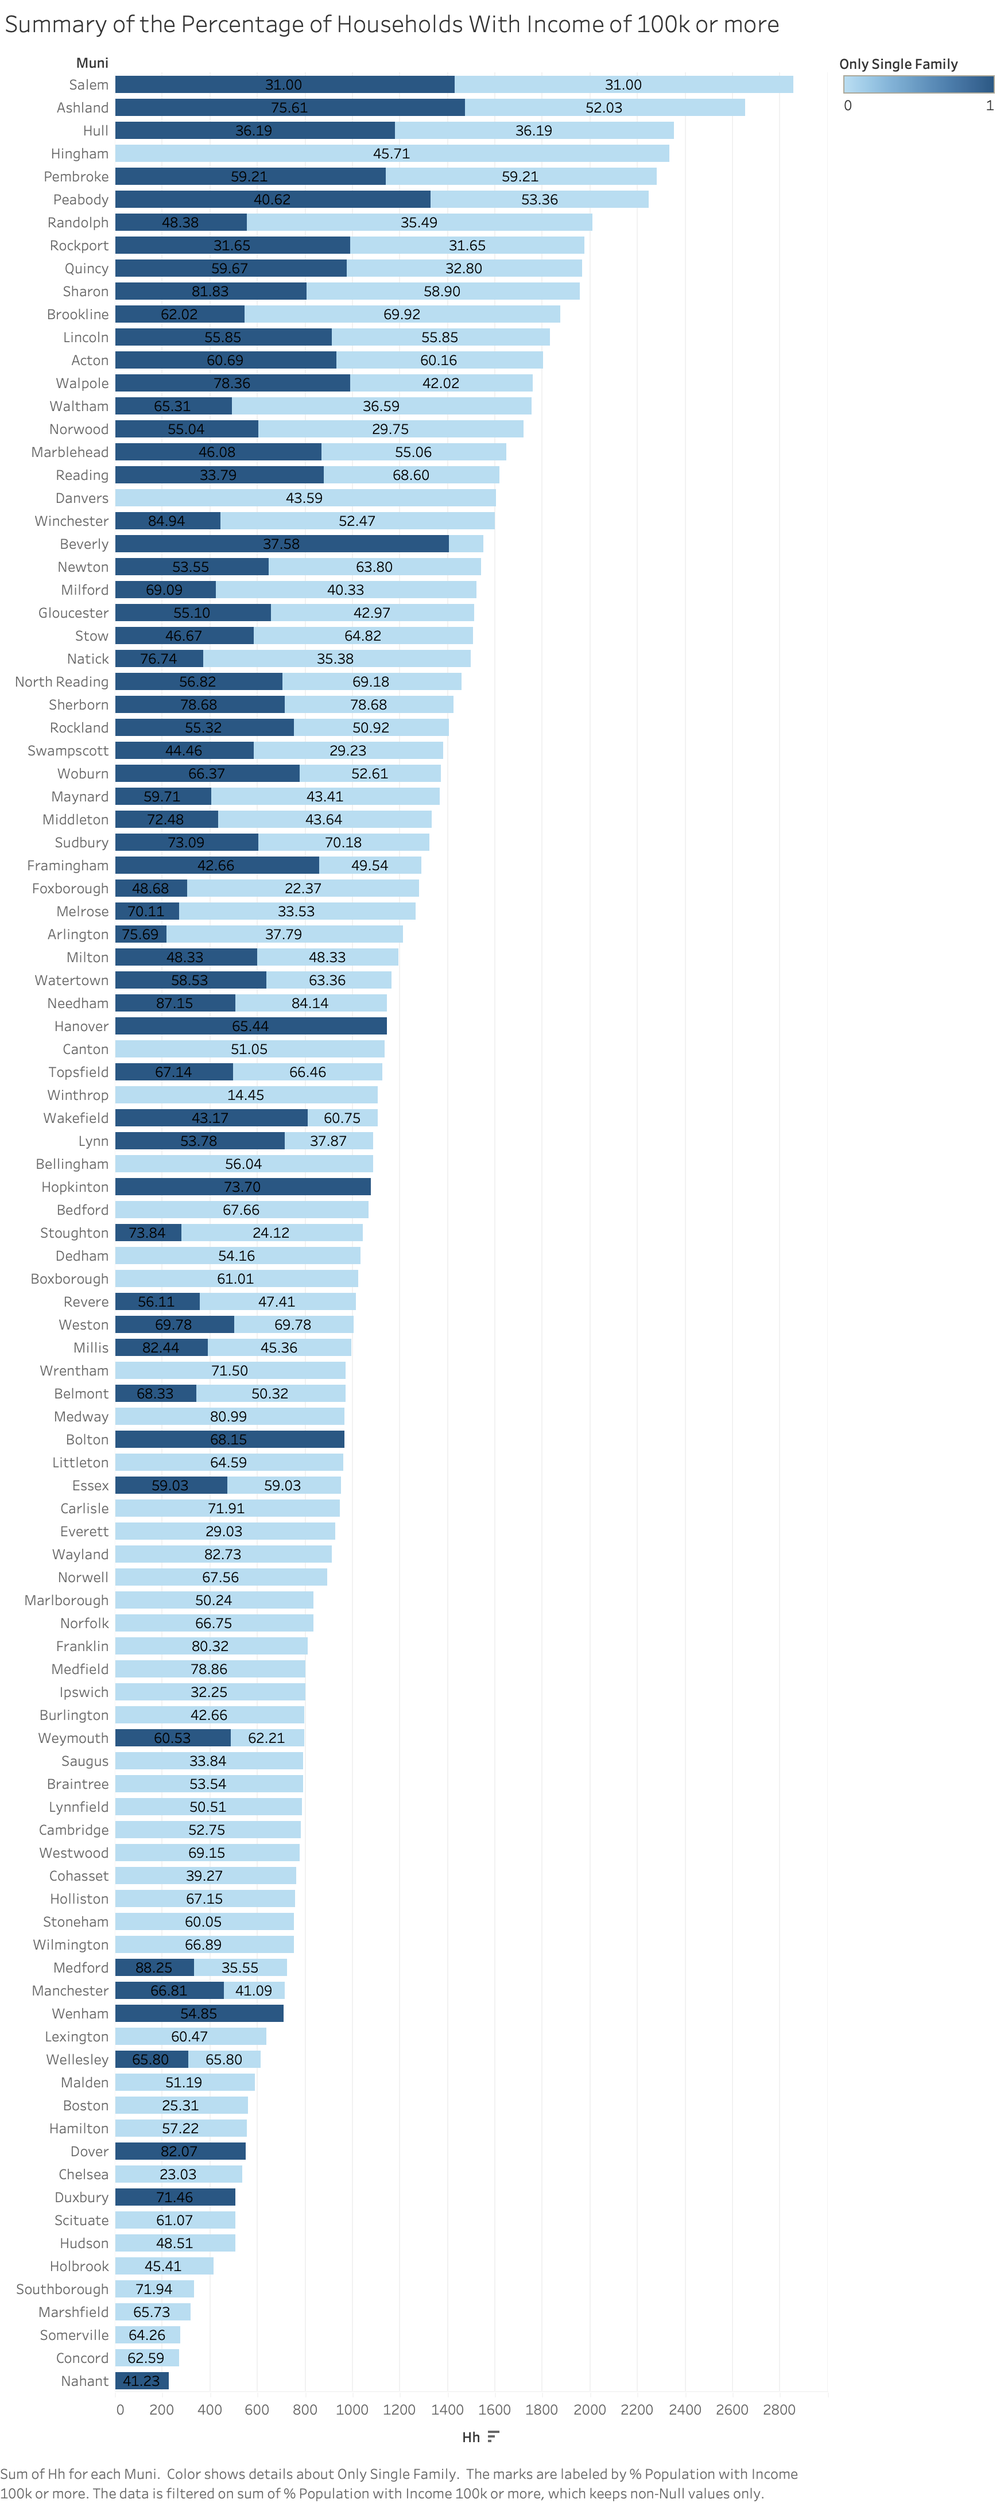
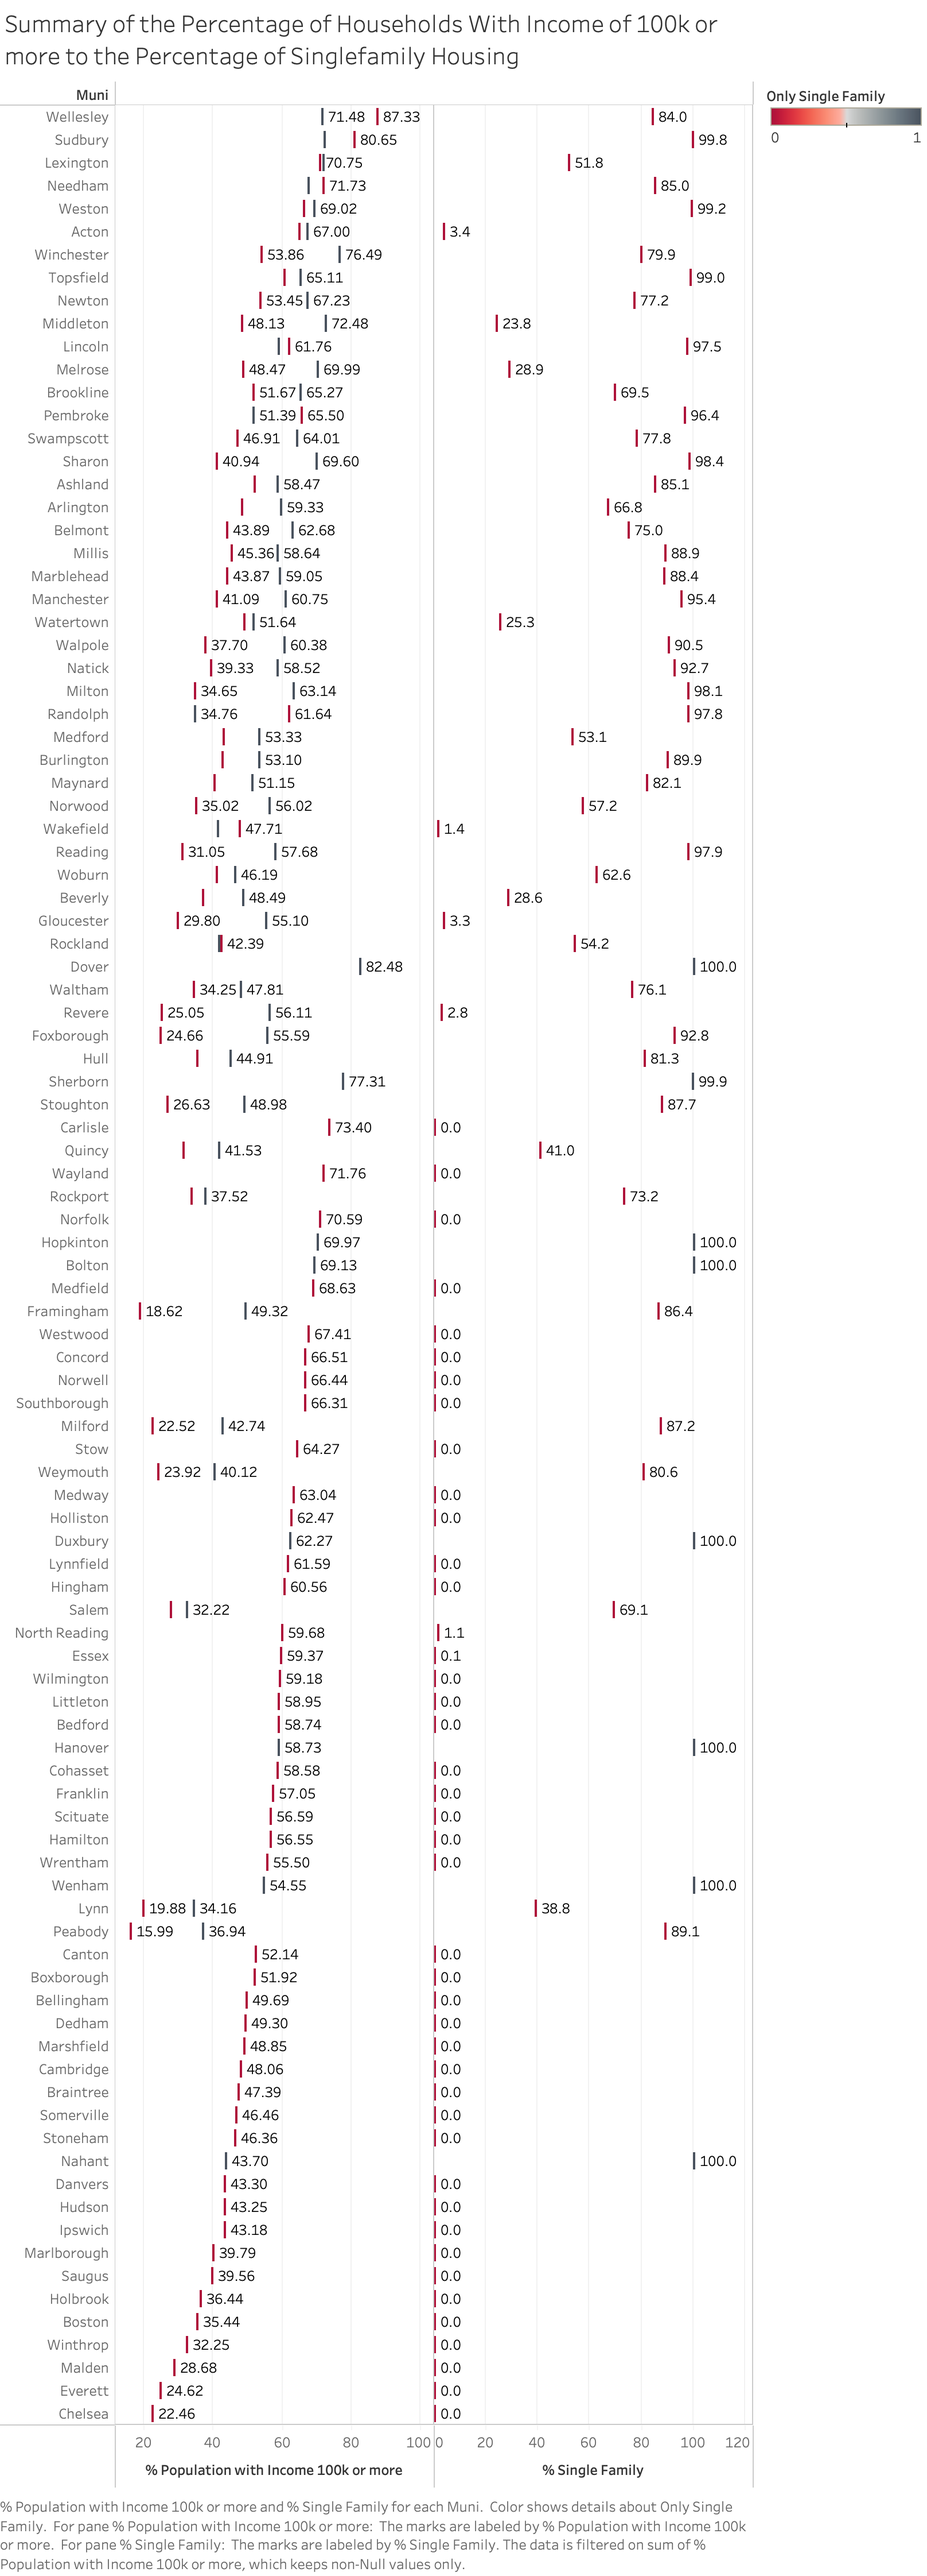
fned 5 - 7

diff --git a/assignment2/index.html b/assignment2/index.html
@@ -62,28 +62,28 @@
 			<figure>
 				<img src="./Sheet 4.png" alt="" />
 				<figcaption>
-				The bubble chart illustrates the population under 18 years based on different housing types. The pink bubbles represent the population living in multifamily housing zone and the purple bubbles represent the population living in single-family housing zone. This illustration shocks me as I did not expect how uneven the distribution of dependants living in multifamily housings compared to single-family housings would be. My inference was that people living in single-family houses are more likely to have more children as they can afford to do so. I wonder what is the distributions for other age groups are like.
+				The bubble chart illustrates the population under 18 years based on different housing types. The pink bubbles represent the population living in multifamily housing zone and the purple bubbles represent the population living in single-family housing zone. This illustration shocks me as I did not expect how uneven the distribution of dependants living in multifamily housings compared to single-family housings would be. My inference was that people living in single-family houses are more likely to have more children as they have more living space. I wonder what is the distributions for other age groups are like.
 				</figcaption>
 			</figure>
 
 			<figure>
 				<img src="Sheet 5.png" alt="" />
 				<figcaption>
-				The bar graphs compare the different distribution of age groups across different cities, each indicating which housing zone the population is from. The pink bar represents the people living in multifamily housing zone while the dark purple bar represents the people living in single-family housings. Expanding from previous observation about the population under 18, I would expect more retired people (over 65) to live in single-family houses because they are usually more established financially with no dependants. Yet, that's not the case at all. The charts indicates that people, across all age groups tend to live in multifamily housing zones. Only in some cities (eg. Woburn) would this observation flipped. I wonder what causes the difference in the trend. Noticably, some rows were excluded as since their populations were recorded as 0.
+				The bar graphs compare the different distribution of age groups across different cities on the MBTA list (cities that allow for multifamily housings). The pink bar represents the people living in multifamily housing zone while the dark purple bar represents the people living in single-family housings. Expanding from previous observation about the population under 18, I would expect more retired people (over 65) to live in single-family houses because they are usually more established financially with no dependants. Yet, that's not the case at all. The charts indicates that the population, across all age groups, tend to have similar distribution in single-family and multifamily housing zones. The difference depends on the cities themselves.
 				</figcaption>
 			</figure>
 
 			<figure>
 				<img src="Sheet 6.png" alt="" />
 				<figcaption>
-				The chart displays the percentage of households with an income of $100,000 or more with labels. The dark blue represent households living in single-family housings and the light blue represent households living in multifamily housings. I expected to see more of a difference between the percentages between single-family and multifamily households because I expect most single-family households to have higher income. Yet, the numbers are about the same in most municipals. 
+				The chart displays the percentage of households with an income of $100,000 or more with labels next to a chart with the percentage of single-family housing. The black tick represents household living in single-family housing zone and the dark red represent households living in multifamily housing zone. I expected to see more of a difference between the percentages between single-family and multifamily households because I expect most single-family households to have higher income. Yet, the numbers are about the same in most municipals. There is also no evidence for how the percentage of single-family housing is affected by the percentage of people with high income living in that city. However, it does look like single-family housing zone tend to have higher percentage of households with more than $100k income.
 				</figcaption>
 			</figure>
-p
+
 			<figure>
-				<img src="Sheet 8.png" alt="" />
+				<img src="Sheet 7.png" alt="" />
 				<figcaption>
-				The chart compares the percentage of non-white population between single-family and multifamily housing zone where pink represents multifamily and purple represents single-family. In almost every municipals where there are both single and multifamily housing, we can see that non-white population is always greater in multifamily housing zone than single-family housing zone. We can argue that by restricting the size of multifamily housing zone, cities can lower the percentage of non-white population in the city. 
+				The chart compares the percentage of non-white population between single-family and multifamily housing zone where red ticks represent multifamily and black ticks represent single-family. In almost every municipals where there are both single and multifamily housing, we can see that non-white population is always greater in multifamily housing zone than single-family housing zone. The difference is more apparent in cities like Framinghamn Lynn, Medford, Randolph, Revere, and many more. We can argue that by restricting the size of multifamily housing zone, cities can purposely lower the percentage of non-white population in the city.
 				</figcaption>
 			</figure>
 
